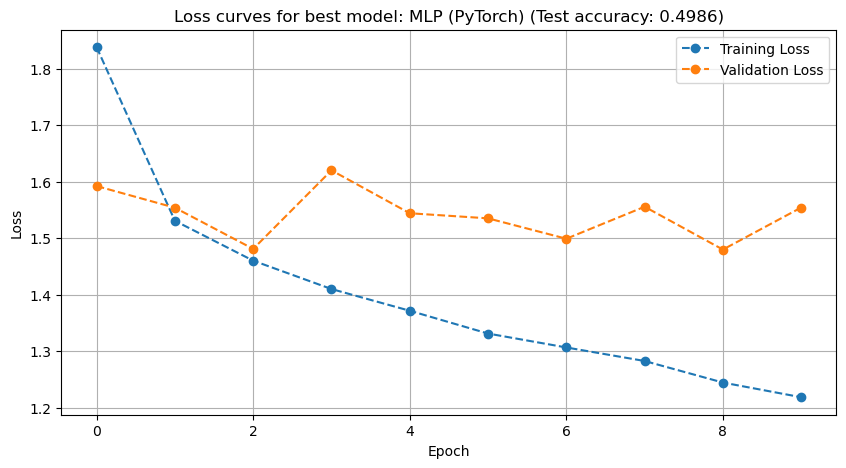
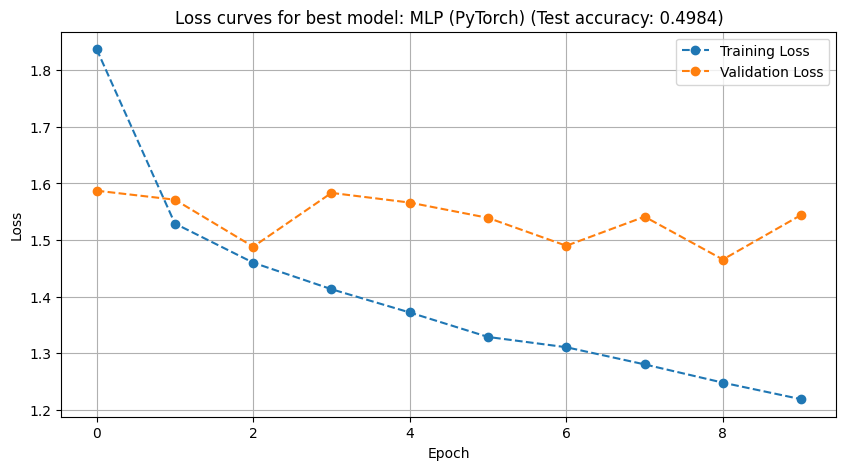
Adds support for GPU training

diff --git a/assignment_1_13677640/train_mlp_pytorch.py b/assignment_1_13677640/train_mlp_pytorch.py
@@ -133,13 +133,15 @@ def evaluate_model(model, data_loader):
     iterator = tqdm(data_loader, desc=f"::::: Evaluating model on given dataloader")
     for batch in iterator:
         x, y = batch
+        x = x.to(model.device)
+        y = y.to(model.device)
 
         # 1: forward pass
         y_pred = model(x)
         accu = accuracy(y_pred, y)
         avg_accuracy.append(accu)
 
-    avg_accuracy = np.mean(avg_accuracy)
+    avg_accuracy = torch.tensor(avg_accuracy).mean().cpu().numpy()
     #######################
     # END OF YOUR CODE    #
     #######################
@@ -247,11 +249,11 @@ def train(hidden_dims, lr, use_batch_norm, batch_size, epochs, seed, data_dir):
             model, loss, accu = step(model, loss_module, batch, iterator, epoch, opt, mode="Validate")
             val_epoch_loss.append(loss)
             val_epoch_accu.append(accu)
-        
-        train_losses.append(np.mean(train_epoch_loss))
-        train_accuracies.append(np.mean(train_epoch_accu))
-        val_losses.append(np.mean(val_epoch_loss))
-        val_accuracies.append(np.mean(val_epoch_accu))
+
+        train_losses.append(torch.tensor(train_epoch_loss).mean().cpu().numpy())
+        train_accuracies.append(torch.tensor(train_epoch_accu).mean().cpu().numpy())
+        val_losses.append(torch.tensor(val_epoch_loss).mean().cpu().numpy())
+        val_accuracies.append(torch.tensor(val_epoch_accu).mean().cpu().numpy())
 
         print(f"::::: Finished Epoch {epoch} ")
         print(f"::::: Training | Loss: {train_losses[-1]:.4f} | Accuracy: {train_accuracies[-1]:.4f}")
